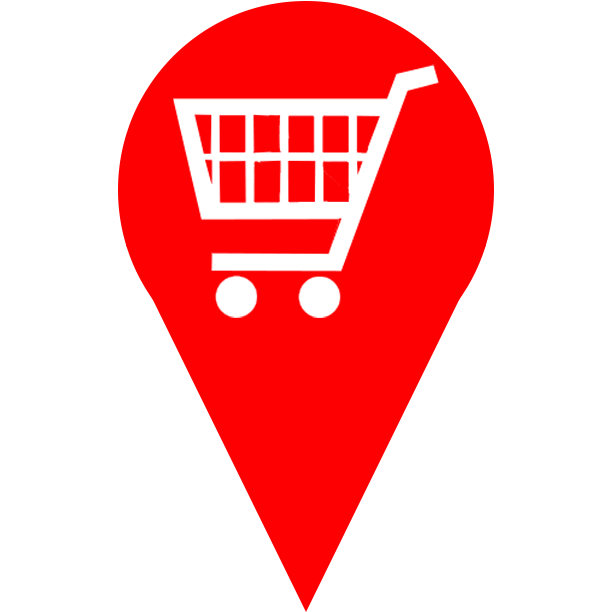
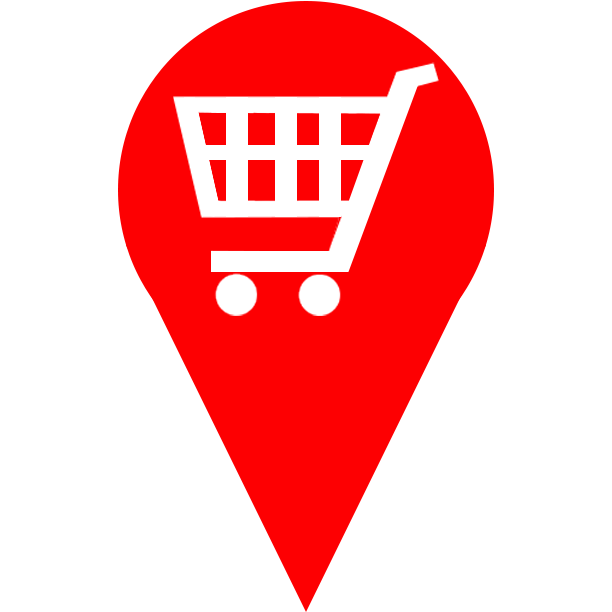
Разные варианты иконок.

Changed region(s): [[0.2794, 0.0931, 0.7141, 0.4657], [0.4967, 0.4967, 0.5588, 0.5278], [0.3415, 0.4967, 0.4036, 0.5278]]

diff --git a/src/components/MainPage/MainPage.jsx b/src/components/MainPage/MainPage.jsx
@@ -18,7 +18,7 @@ import 'leaflet-defaulticon-compatibility';
 import './MainPage.css';
 import L from 'leaflet';
 const parkingIcon = new L.Icon({
-  iconUrl: '/images/parking2.png', // путь к иконке
+  iconUrl: '/images/parking31.png', // путь к иконке
   shadowUrl: '/images/shadow.png',
   iconSize: [48, 48],
   iconAnchor: [16, 48],
@@ -27,7 +27,7 @@ const parkingIcon = new L.Icon({
 });
 
 const foodIcon = new L.Icon({
-  iconUrl: '/images/food2.png',
+  iconUrl: '/images/food31.png',
   shadowUrl: '/images/shadow.png',
   iconSize: [48, 48],
   iconAnchor: [16, 48],
